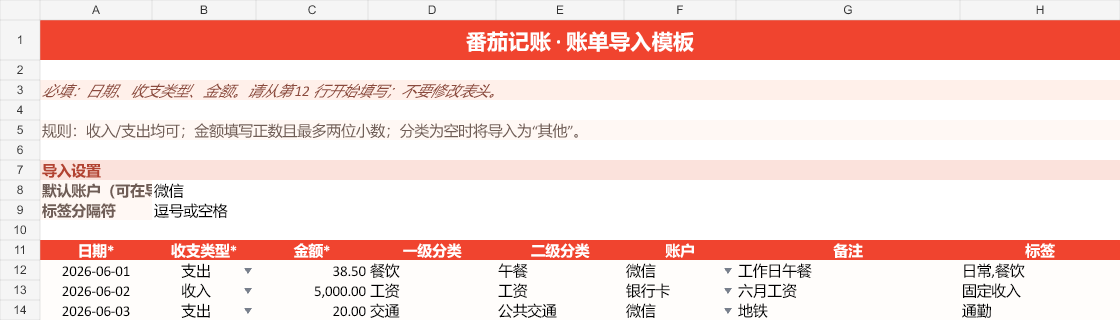
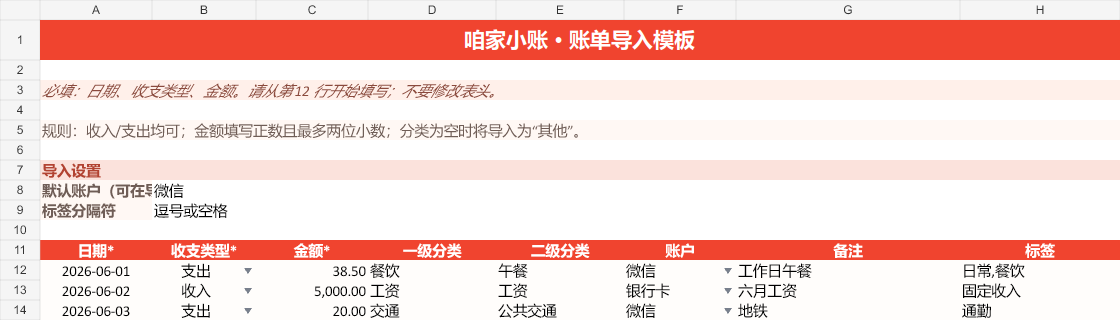
docs: 统一 OurNest 项目品牌说明

Changed region(s): [[0.4062, 0.0625, 0.625, 0.1875], [0.0312, 0.0625, 0.0625, 0.0938]]

diff --git a/README.md b/README.md
@@ -1,6 +1,6 @@
 # 咱家小账 (OurNest)
 
-一个基于微信小程序云开发的家庭与个人记账应用。支持个人账本与家庭共享账本：夫妻/家庭成员共同记账、实时同步与多维度消费对比；数据、权限和核心业务逻辑统一由云函数安全处理。
+OurNest 意为“我们的小窝”，中文名为“咱家小账”，是一个基于微信小程序云开发的家庭与个人记账应用。支持个人账本与家庭共享账本：夫妻/家庭成员共同记账、实时同步与多维度消费对比；数据、权限和核心业务逻辑统一由云函数安全处理。
 
 项目支持离线缓存优先、账单导入、多级分类管理及双人/家庭消费趋势分析。
 
@@ -25,7 +25,7 @@ miniprogram/                         小程序前端
   services/                           云函数路由调用封装与本地缓存
   utils/                              金额、日期、映射等纯工具函数
   config/cloud-env.js                测试/生产环境配置
-cloudfunctions/ourNestLedger/        业务云函数 (原 tomatoLedger)
+cloudfunctions/tomatoLedger/         业务云函数
   index.js                            路由入口、统一响应、结构化日志
   actions/                            认证、账本、记录、分类、邀请入口
   shared/ validators/ policies/       响应、校验、权限边界
@@ -38,13 +38,13 @@ plan/PENDING.md                       待办清单
 
 ## 云函数接口
 
-前端通过 `miniprogram/services/` 统一调用业务云函数 `ourNestLedger`。
+前端通过 `miniprogram/services/` 统一调用业务云函数 `tomatoLedger`。
 
 请求使用路由协议：
 
 ```js
 wx.cloud.callFunction({
-  name: "ourNestLedger",
+  name: "tomatoLedger",
   data: {
     route: "record/list",
     payload: { ledgerId, start, end, cursor },
@@ -65,7 +65,7 @@ wx.cloud.callFunction({
 1. 使用微信开发者工具导入项目根目录 `D:\CRRC\OurNest`。
 2. 确认 `miniprogram/config/cloud-env.js` 中的测试环境 ID 为你自己的 CloudBase 环境 ID。
 3. 在微信开发者工具中展开 `cloudfunctions` 目录。
-4. 右键点击 `ourNestLedger` 云函数，选择 **“上传并部署：云端安装依赖”**。
+4. 右键点击 `tomatoLedger` 云函数，选择 **“上传并部署：云端安装依赖”**。
 5. 点击 **“编译”**（Ctrl + B）即可启动。
 
 ## 质量与测试验证

diff --git a/docs/UI-GUIDELINES.md b/docs/UI-GUIDELINES.md
@@ -12,15 +12,15 @@ parent: miniprogram
 > 更新日期：2026-08-12  
 > 依据：[UI 现状盘点](./UI-AUDIT.md)
 
-本文件定义番茄记账 UI 调整的共同方向，并与 `miniprogram/app.wxss` 中的 Token、公共组件及自动检查共同构成后续任务的执行基线。
+本文件定义咱家小账（OurNest）UI 调整的共同方向，并与 `miniprogram/app.wxss` 中的 Token、公共组件及自动检查共同构成后续任务的执行基线。
 
 ## 一句话方向
 
-番茄记账是一个温暖、清晰、耐看的生活记账工具：保留番茄色辨识度，优先保证数据和操作清楚，不让装饰压过内容。
+咱家小账（OurNest）是一个温暖、清晰、耐看的个人与家庭记账工具：以“我们的小窝”为情感方向，保留暖红色辨识度，优先保证数据和操作清楚，不让装饰压过内容。
 
 ## 基础原则
 
-1. 维持现有暖色背景、番茄主色、大圆角和线性图标方向，不重新设计品牌风格。
+1. 维持现有暖色背景、暖红主色、大圆角和线性图标方向，不重新设计品牌风格。
 2. 页面依靠留白、文字、颜色、边框和背景建立层级，默认完全不使用阴影。
 3. `tl-tabbar` 是唯一允许使用阴影的常规组件；阴影必须轻、柔和、向上，只用于和页面内容区分。
 4. 渐变只用于页面背景或少数重点区域，方向单一、同色系、深浅连续，结束颜色必须与相邻底色自然衔接。
@@ -101,7 +101,7 @@ parent: miniprogram
 
 - 不为相近语义创建连续的 `23rpx`、`24rpx`、`25rpx` 等局部字号。
 - 同一级文字在不同页面保持相同字号、字重、行高和颜色语义。
-- 番茄红不用于大段正文；收入、支出、危险和品牌强调分别遵循对应语义。
+- 品牌暖红不用于大段正文；收入、支出、危险和品牌强调分别遵循对应语义。
 - 数字与单位形成稳定强弱关系，避免单位和金额同等突出。
 
 ### 表单

diff --git a/AGENTS.md b/AGENTS.md
@@ -1,4 +1,4 @@
-# 番茄记账：项目协作规则
+# 咱家小账（OurNest）：项目协作规则
 
 本文件面向在此仓库工作的自动化协作者。它提炼自 `README.md`、`docs/` 和 `plan/PENDING.md`；当它与现有代码或更具体目录下的 `AGENTS.md` 冲突时，以更具体的规则和已验证的实现为准。
 
@@ -34,7 +34,7 @@
 ## UI 与产品一致性
 
 - UI 设计与实现以 `docs/UI-GUIDELINES.md` 为准；新增样式优先复用 `miniprogram/app.wxss` 的语义 Token 和已有 `tl-` 公共组件。
-- 保持现有温暖番茄色设计体系：主色 `#F0442F`、浅暖背景、统一的圆角/卡片/自定义 navbar 语言。
+- 保持现有温暖的暖红色设计体系：主色 `#F0442F`、浅暖背景、统一的圆角/卡片/自定义 navbar 语言。
 - 除 `tl-tabbar` 外不使用阴影；渐变仅限规范允许的页面背景、Tabbar 中央操作和骨架动画，并保证端点自然衔接。
 - 页面不得私有实现通用骨架、空状态、按钮、固定底部操作、Bottom Sheet 或 Dialog；同一时刻只能有一个组件负责底部安全区。
 - 页面数据状态使用互斥的 Loading → Error / Empty / Ready 状态链，Loading 时不得提前渲染 Ready 内容。

diff --git a/docs/UI-AUDIT.md b/docs/UI-AUDIT.md
@@ -11,7 +11,7 @@
 
 ## 结论
 
-项目已经形成清晰的视觉方向：番茄主色、暖色背景、大圆角卡片和 Remix Icon 线性图标基本稳定。当前问题不是“没有风格”，而是同一语义被多套局部样式表达，导致页面越多，维护和校准成本越高。
+项目已经形成清晰的视觉方向：暖红主色、暖色背景、大圆角卡片和 Remix Icon 线性图标基本稳定。当前问题不是“没有风格”，而是同一语义被多套局部样式表达，导致页面越多，维护和校准成本越高。
 
 下一阶段不应选择某个页面作为全局视觉标准，而应先确定按钮、卡片、标题、表单、列表、状态和浮层各自承担的语义，再让首页、明细、分析及二级页面共同映射到同一套规则。
 

diff --git a/architecture.md b/architecture.md
@@ -17,6 +17,6 @@ parent: product-goal
 - 测试与生产环境隔离，发布前的环境约束见 `cloud-environments`。
 - UI 的语义、公共组件和安全区边界见 `ui-guidelines`。
 
-## 已知文档差异
+## 离线能力边界
 
-README 部分位置仍称云函数为 `ourNestLedger`；实际目录和前端调用名为 `tomatoLedger`。README 对离线能力的概括不代表支持离线写入队列。
+本地缓存用于改善读取体验，不代表支持离线写入队列。

diff --git a/docs/EXPERIENCE-OPTIMIZATION-PLAN.md b/docs/EXPERIENCE-OPTIMIZATION-PLAN.md
@@ -1,4 +1,4 @@
-# 番茄记账：性能与体验优化实施方案
+# 咱家小账（OurNest）：性能与体验优化实施方案
 
 > 方案日期：2026-10-28。本文是实施路线，不代表各项性能问题已经在真实设备上测出。实际优先级以第一阶段的测试环境数据为准。
 
